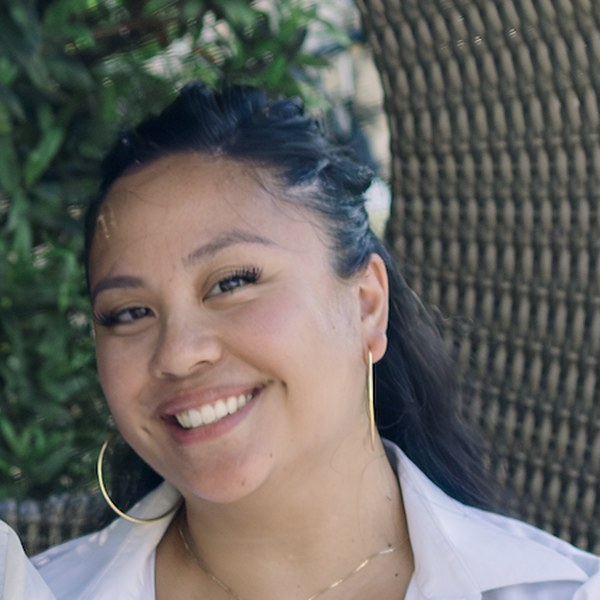
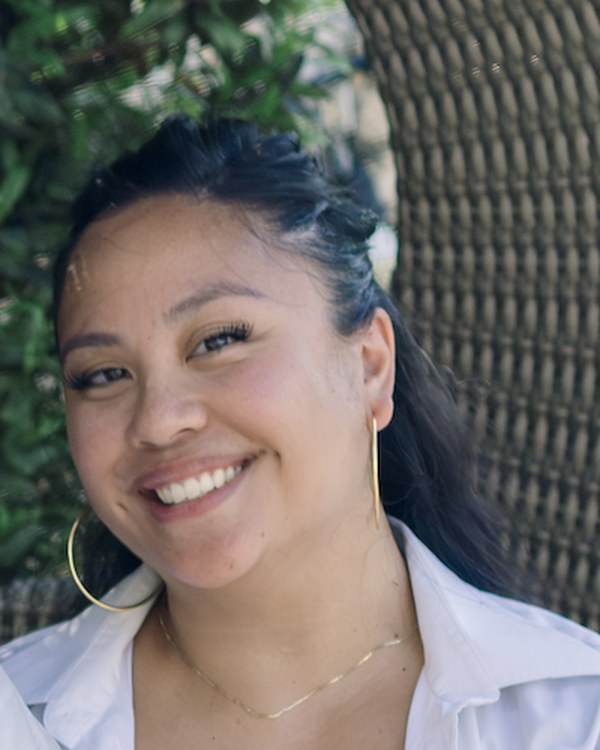
Vertical headshot and refined bio line

diff --git a/index.html b/index.html
@@ -109,8 +109,8 @@ header{position:sticky;top:env(safe-area-inset-top,0px);z-index:5;background:col
 .bio{margin-bottom:16px}
 .bio::after{content:"";display:block;clear:both}
 .bio p:last-child{margin-bottom:0}
-.headshot{float:right;width:190px;margin:2px 0 10px 28px;shape-outside:circle(50%);shape-margin:12px}
-.headshot img{display:block;width:100%;height:auto;aspect-ratio:1;object-fit:cover;object-position:center;border-radius:50%;border:4px solid var(--surface);box-shadow:0 14px 30px -20px color-mix(in srgb,var(--ink) 50%,transparent);background:var(--tint1)}
+.headshot{float:right;width:180px;margin:2px 0 10px 28px;shape-outside:inset(0 round 18px);shape-margin:8px}
+.headshot img{display:block;width:100%;height:auto;aspect-ratio:4/5;object-fit:cover;object-position:center;border-radius:18px;border:4px solid var(--surface);box-shadow:0 14px 30px -20px color-mix(in srgb,var(--ink) 50%,transparent);background:var(--tint1)}
 @media (max-width:520px){.headshot{width:120px;margin-left:16px}}
 .why{display:grid;gap:14px;margin-top:8px}
 .why div{display:grid;grid-template-columns:40px 1fr;gap:14px;align-items:start;padding:16px;background:var(--surface);border:1px solid var(--line);border-radius:14px}
@@ -217,9 +217,9 @@ footer .wrap{display:flex;flex-wrap:wrap;justify-content:space-between;gap:12px}
       </div>
       <div class="about-copy">
         <div class="bio">
-          <figure class="headshot"><img src="headshot.jpg" alt="Headshot of Joanna J." width="600" height="600" onerror="this.parentElement.hidden=true"></figure>
+          <figure class="headshot"><img src="headshot.jpg?v=3" alt="Headshot of Joanna J." width="600" height="750" onerror="this.parentElement.hidden=true"></figure>
           <p>I'm Joanna, a Bay Area voice actor with a warm, upbeat sound that feels like talking to a friend. I've always loved bringing characters to life, and some of my favorite performances happen at home, doing voices for my son's characters. Whether it's an animated character, a commercial, or calm narration that helps people slow down and unwind, I bring that same warmth and fun to every read.</p>
-          <p>Off the mic, I'm an attorney and law school director in Silicon Valley, where I teach, host conferences, and welcome full rooms of people. Speaking clearly and warmly to an audience is part of my everyday life.</p>
+          <p>Off the mic, I'm an attorney and law school director in Silicon Valley, where I lecture on law, direct a high tech law program, and deliver remarks at national legal conferences. Speaking clearly and warmly to an audience is part of my everyday life.</p>
           <p>Both sides shape how I work. I bring playfulness to every read and preparation to every project. I read scripts closely, take direction quickly, and take every deadline seriously, so you get a creative partner and a reliable professional.</p>
         </div>
         <div class="why">
